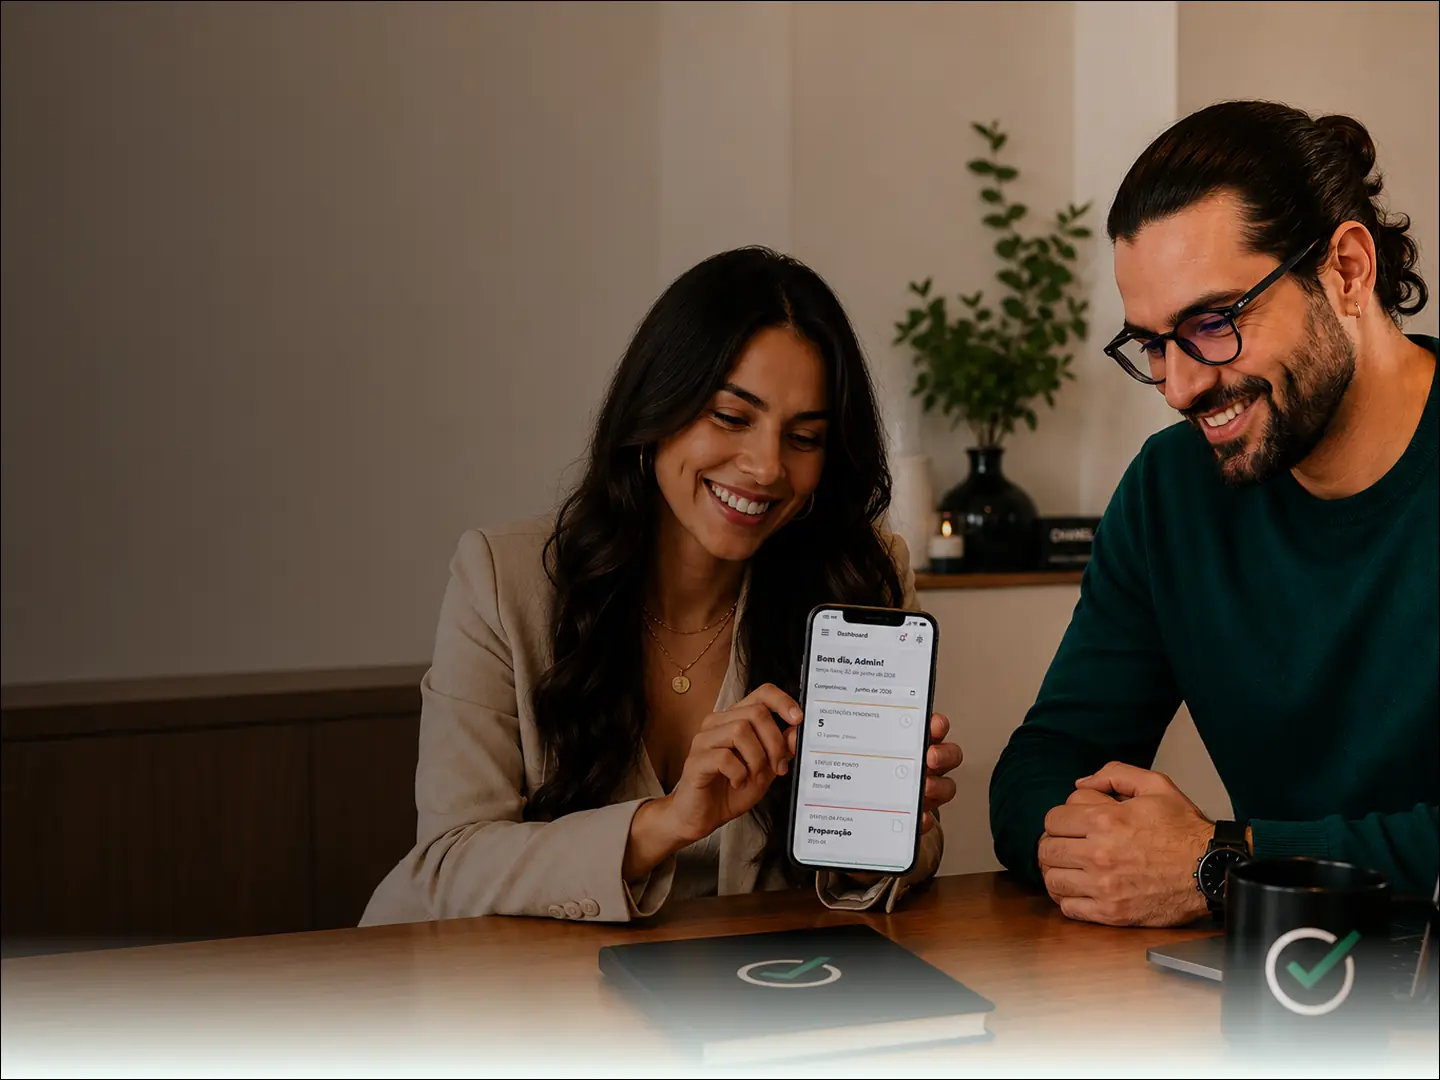
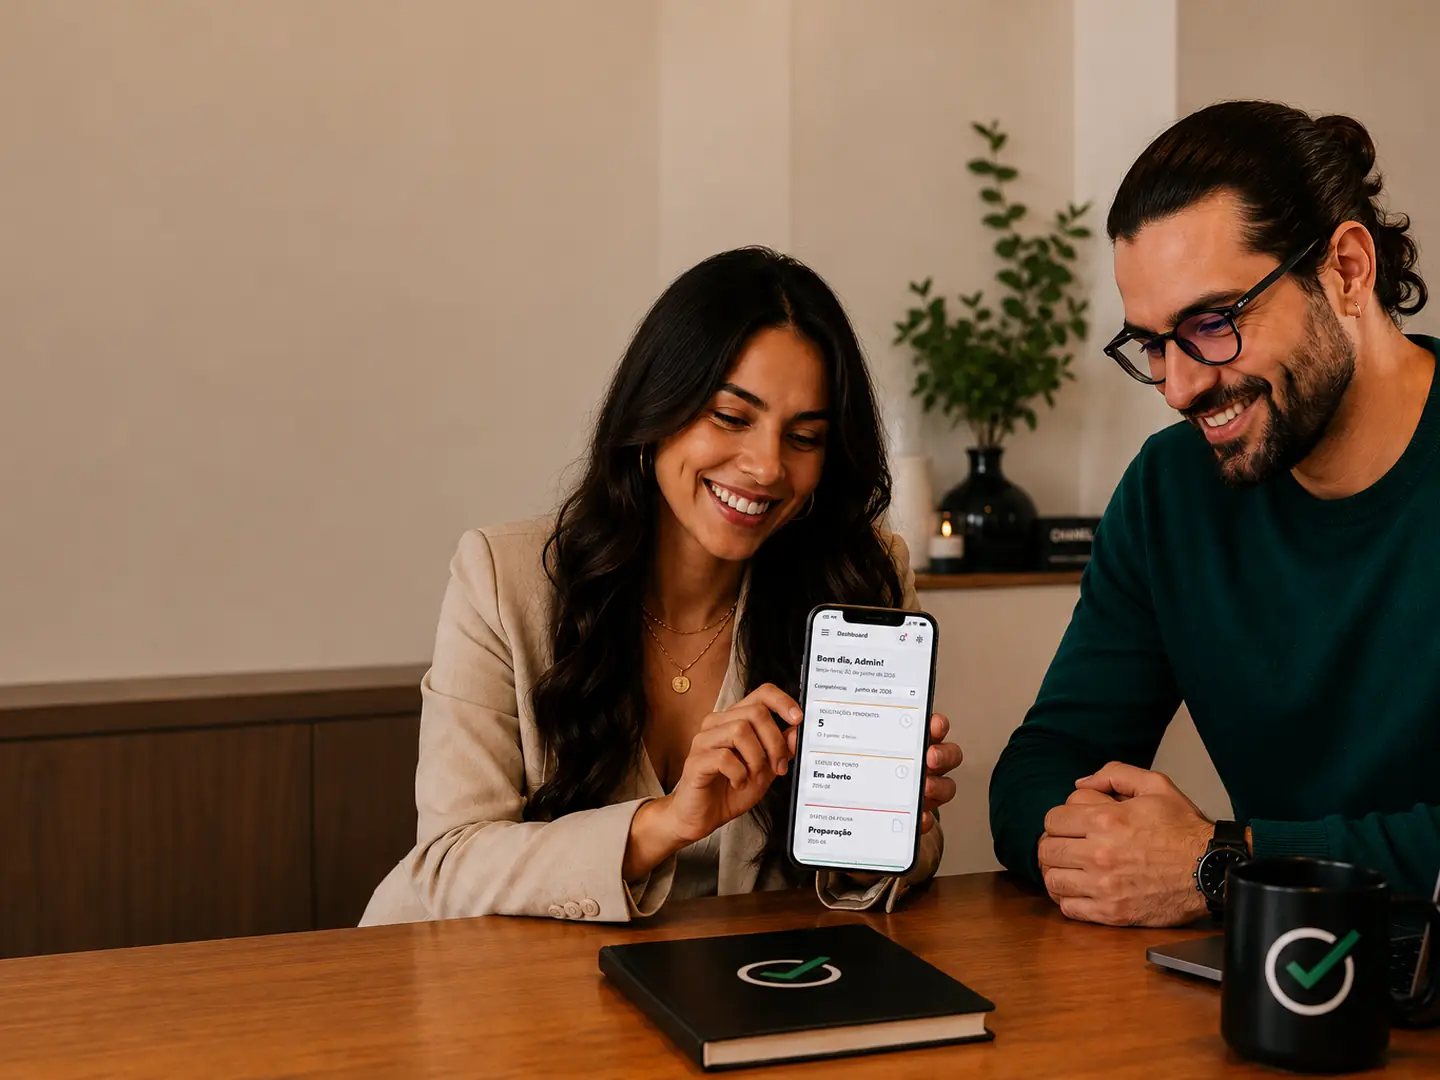
feat: add hover em seções, ajusta links na navbar e imagem da hero

diff --git a/src/modules/landing/components/ResourcesSection.tsx b/src/modules/landing/components/ResourcesSection.tsx
@@ -1,4 +1,4 @@
-import { Fragment } from 'react';
+import { Fragment, useState } from 'react';
 import {
   Accordion,
   AccordionContent,
@@ -15,13 +15,17 @@ import type { Resource, Resources } from '@/modules/landing/types/resources.type
 
 type ResourceTabProps = {
   item: Resource;
+  onHover: () => void;
 };
 
-function ResourceTab({ item }: ResourceTabProps) {
+function ResourceTab({ item, onHover }: ResourceTabProps) {
   const Icon = RESOURCE_ICONS[item.icon];
 
   return (
     <TabsTrigger
+      onPointerEnter={(event) => {
+        if (event.pointerType === 'mouse') onHover();
+      }}
       className="group flex cursor-pointer items-start gap-6 rounded-none border-0 p-0 text-left whitespace-normal transition-colors duration-300 dark:data-[state=inactive]:hover:bg-emerald-950/30 focus-visible:outline-2 focus-visible:outline-emerald-500 focus-visible:outline-offset-2 after:content-none lg:gap-8"
       value={item.id}
     >
@@ -115,6 +119,9 @@ type ResourcesSectionProps = {
 export function ResourcesSection({ content = DEFAULT_RESOURCES }: ResourcesSectionProps) {
   const itemsKey = content.items.map((item) => item.id).join();
   const defaultId = content.items[0]?.id;
+  const [activeId, setActiveId] = useState<string | undefined>(defaultId);
+  // Se a lista de itens mudar e o ativo sumir, volta para o primeiro.
+  const tabValue = content.items.some((item) => item.id === activeId) ? activeId : defaultId;
 
   return (
     <section className="w-full overflow-hidden bg-white dark:bg-neutral-900" id="recursos">
@@ -153,9 +160,9 @@ export function ResourcesSection({ content = DEFAULT_RESOURCES }: ResourcesSecti
         <div className="hidden lg:block">
           <Tabs
             className="mx-auto grid max-w-328 grid-cols-2 items-start gap-12"
-            defaultValue={defaultId}
-            key={itemsKey}
+            onValueChange={setActiveId}
             orientation="vertical"
+            value={tabValue}
           >
             <div className="flex flex-col gap-8">
               <h2 className="font-heading font-medium text-[45px] text-neutral-700 leading-13 tracking-[-0.3px] dark:text-neutral-200">
@@ -171,7 +178,7 @@ export function ResourcesSection({ content = DEFAULT_RESOURCES }: ResourcesSecti
                 variant="line"
               >
                 {content.items.map((item) => (
-                  <ResourceTab item={item} key={item.id} />
+                  <ResourceTab item={item} key={item.id} onHover={() => setActiveId(item.id)} />
                 ))}
               </TabsList>
             </div>

diff --git a/src/modules/landing/components/Navbar.tsx b/src/modules/landing/components/Navbar.tsx
@@ -9,11 +9,11 @@ import type { Nav } from '../types/nav.types';
 
 const DEFAULT_NAV: Nav = {
   links: [
-    { label: 'Produto', href: '#produto' },
-    { label: 'Funcionalidades', href: '#funcionalidades' },
+    { label: 'Produto', href: '#inicio' },
+    { label: 'Funcionalidades', href: '#app' },
     { label: 'Planos', href: '#planos' },
     { label: 'Recursos', href: '#recursos' },
-    { label: 'Sobre', href: '#sobre' },
+    { label: 'Sobre', href: '#demonstracao' },
     { label: 'FAQ', href: '#faq' },
   ],
 };

diff --git a/src/modules/landing/components/HeroSection.tsx b/src/modules/landing/components/HeroSection.tsx
@@ -37,6 +37,7 @@ export function HeroSection({ content = DEFAULT_HERO }: HeroSectionProps) {
         'bg-white [--hero-fade:#ffffff] lg:bg-emerald-50 lg:[--hero-fade:var(--emerald-50)]',
         'dark:bg-neutral-900 dark:[--hero-fade:var(--neutral-900)]',
       )}
+      id="inicio"
     >
       {/* No mobile a foto e uma faixa no topo, ampliada e deslocada para enquadrar como no
           Figma; no desktop ela ocupa a secao inteira */}

diff --git a/src/modules/landing/components/FeaturesGrid.tsx b/src/modules/landing/components/FeaturesGrid.tsx
@@ -32,6 +32,9 @@ function AdvantageCard({ advantage, isOpen, onSelect }: AdvantageCardProps) {
         isOpen && 'h-65 lg:flex-[2.3]',
       )}
       onClick={onSelect}
+      onPointerEnter={(event) => {
+        if (event.pointerType === 'mouse') onSelect();
+      }}
     >
       <img
         alt={advantage.imageAlt}
